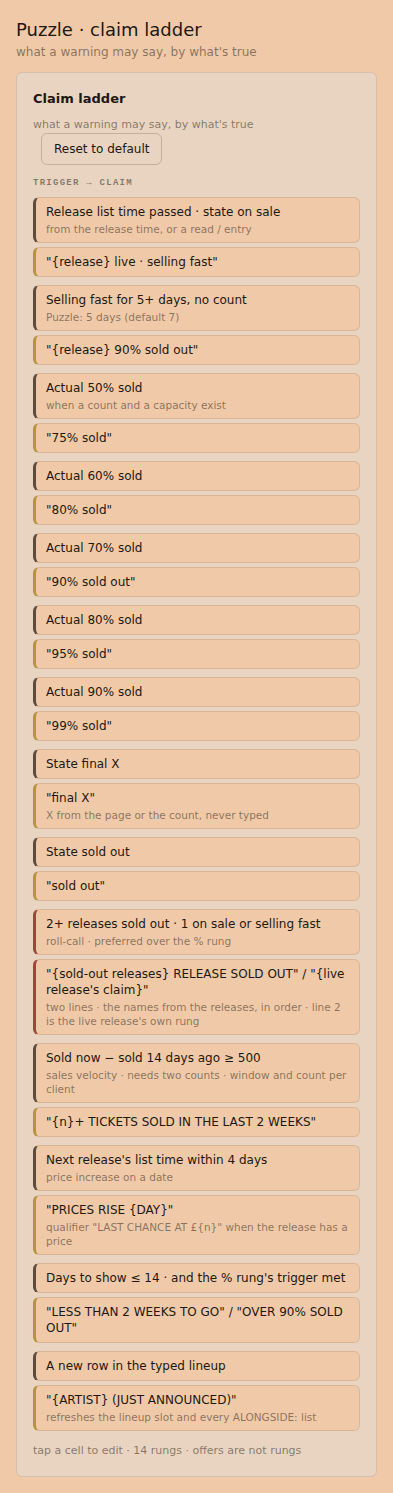
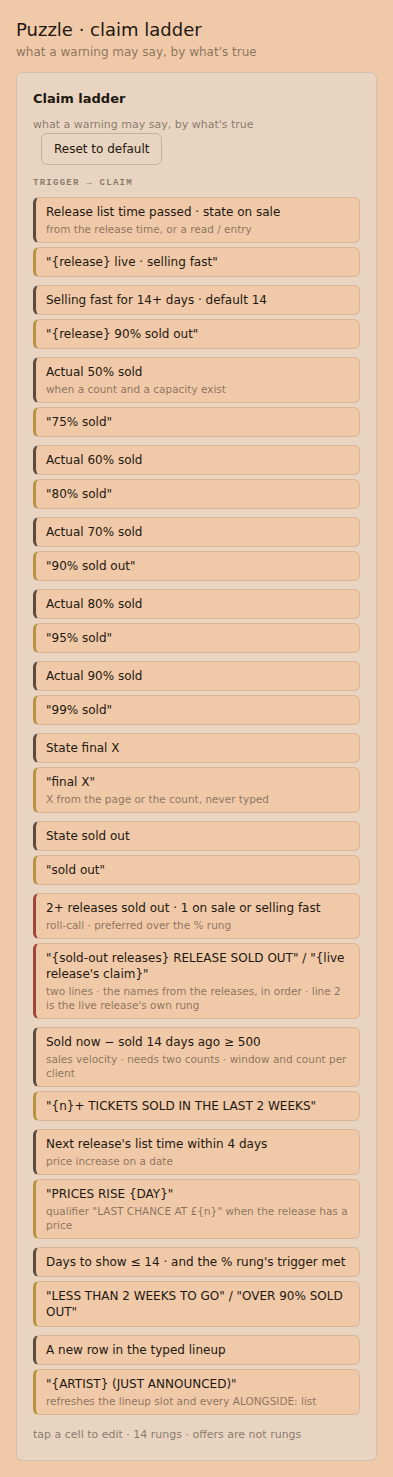
Re-baseline the claim ladder so the 90% rung reads 14 days.
The row lost the Puzzle 5-day sub-line, so both AB5 frames are 16px shorter.

diff --git a/docs/session-logs/pr-pending-cursor-rung-window-14.md b/docs/session-logs/pr-pending-cursor-rung-window-14.md
@@ -21,8 +21,8 @@ The 90% rung waits 14 days, because artwork refreshes every two weeks. The seed 
 
 ## Validation
 
-- [ ] `node --conditions react-server --experimental-strip-types --test lib/releases/__tests__/bank.test.ts`
-- [ ] AB5 Ubuntu pair, both 0, then the frames that moved
+- [x] `node --conditions react-server --experimental-strip-types --test lib/releases/__tests__/bank.test.ts` — 28 passed
+- [ ] AB5 Ubuntu pair 42825268452 / 42825278848, both 0 against each other. AB5-1280 1280×976 → 1280×960. AB5-393 393×1493 → 393×1477. Both now read "Selling fast for 14+ days · default 14".
 - [ ] CI green on the frame commit
 
 ## Notes
